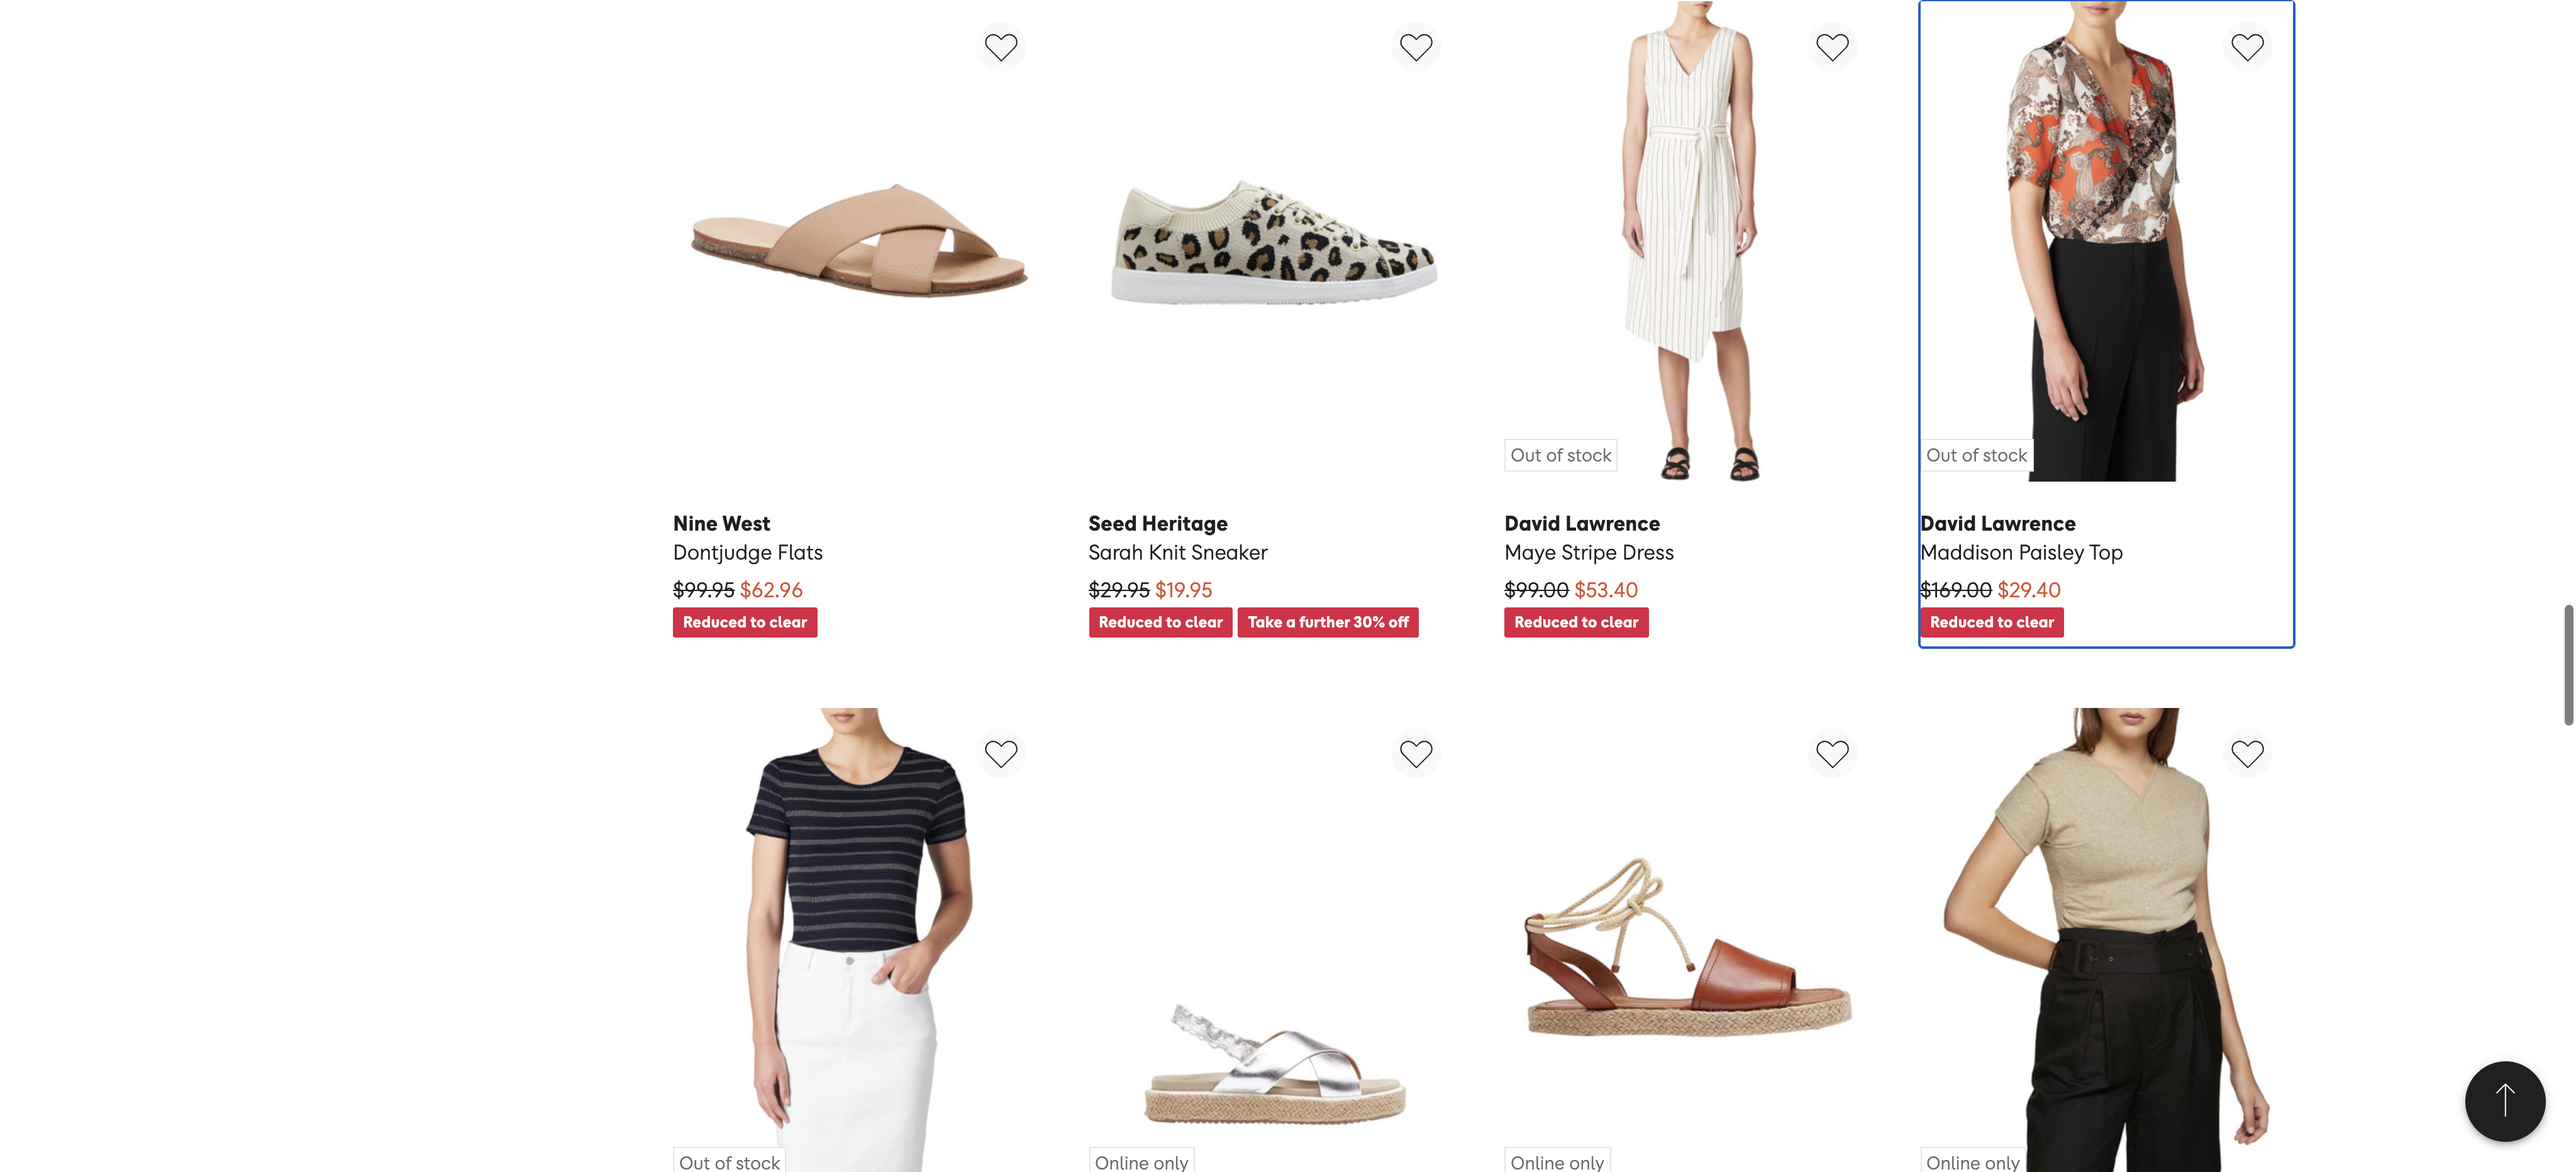
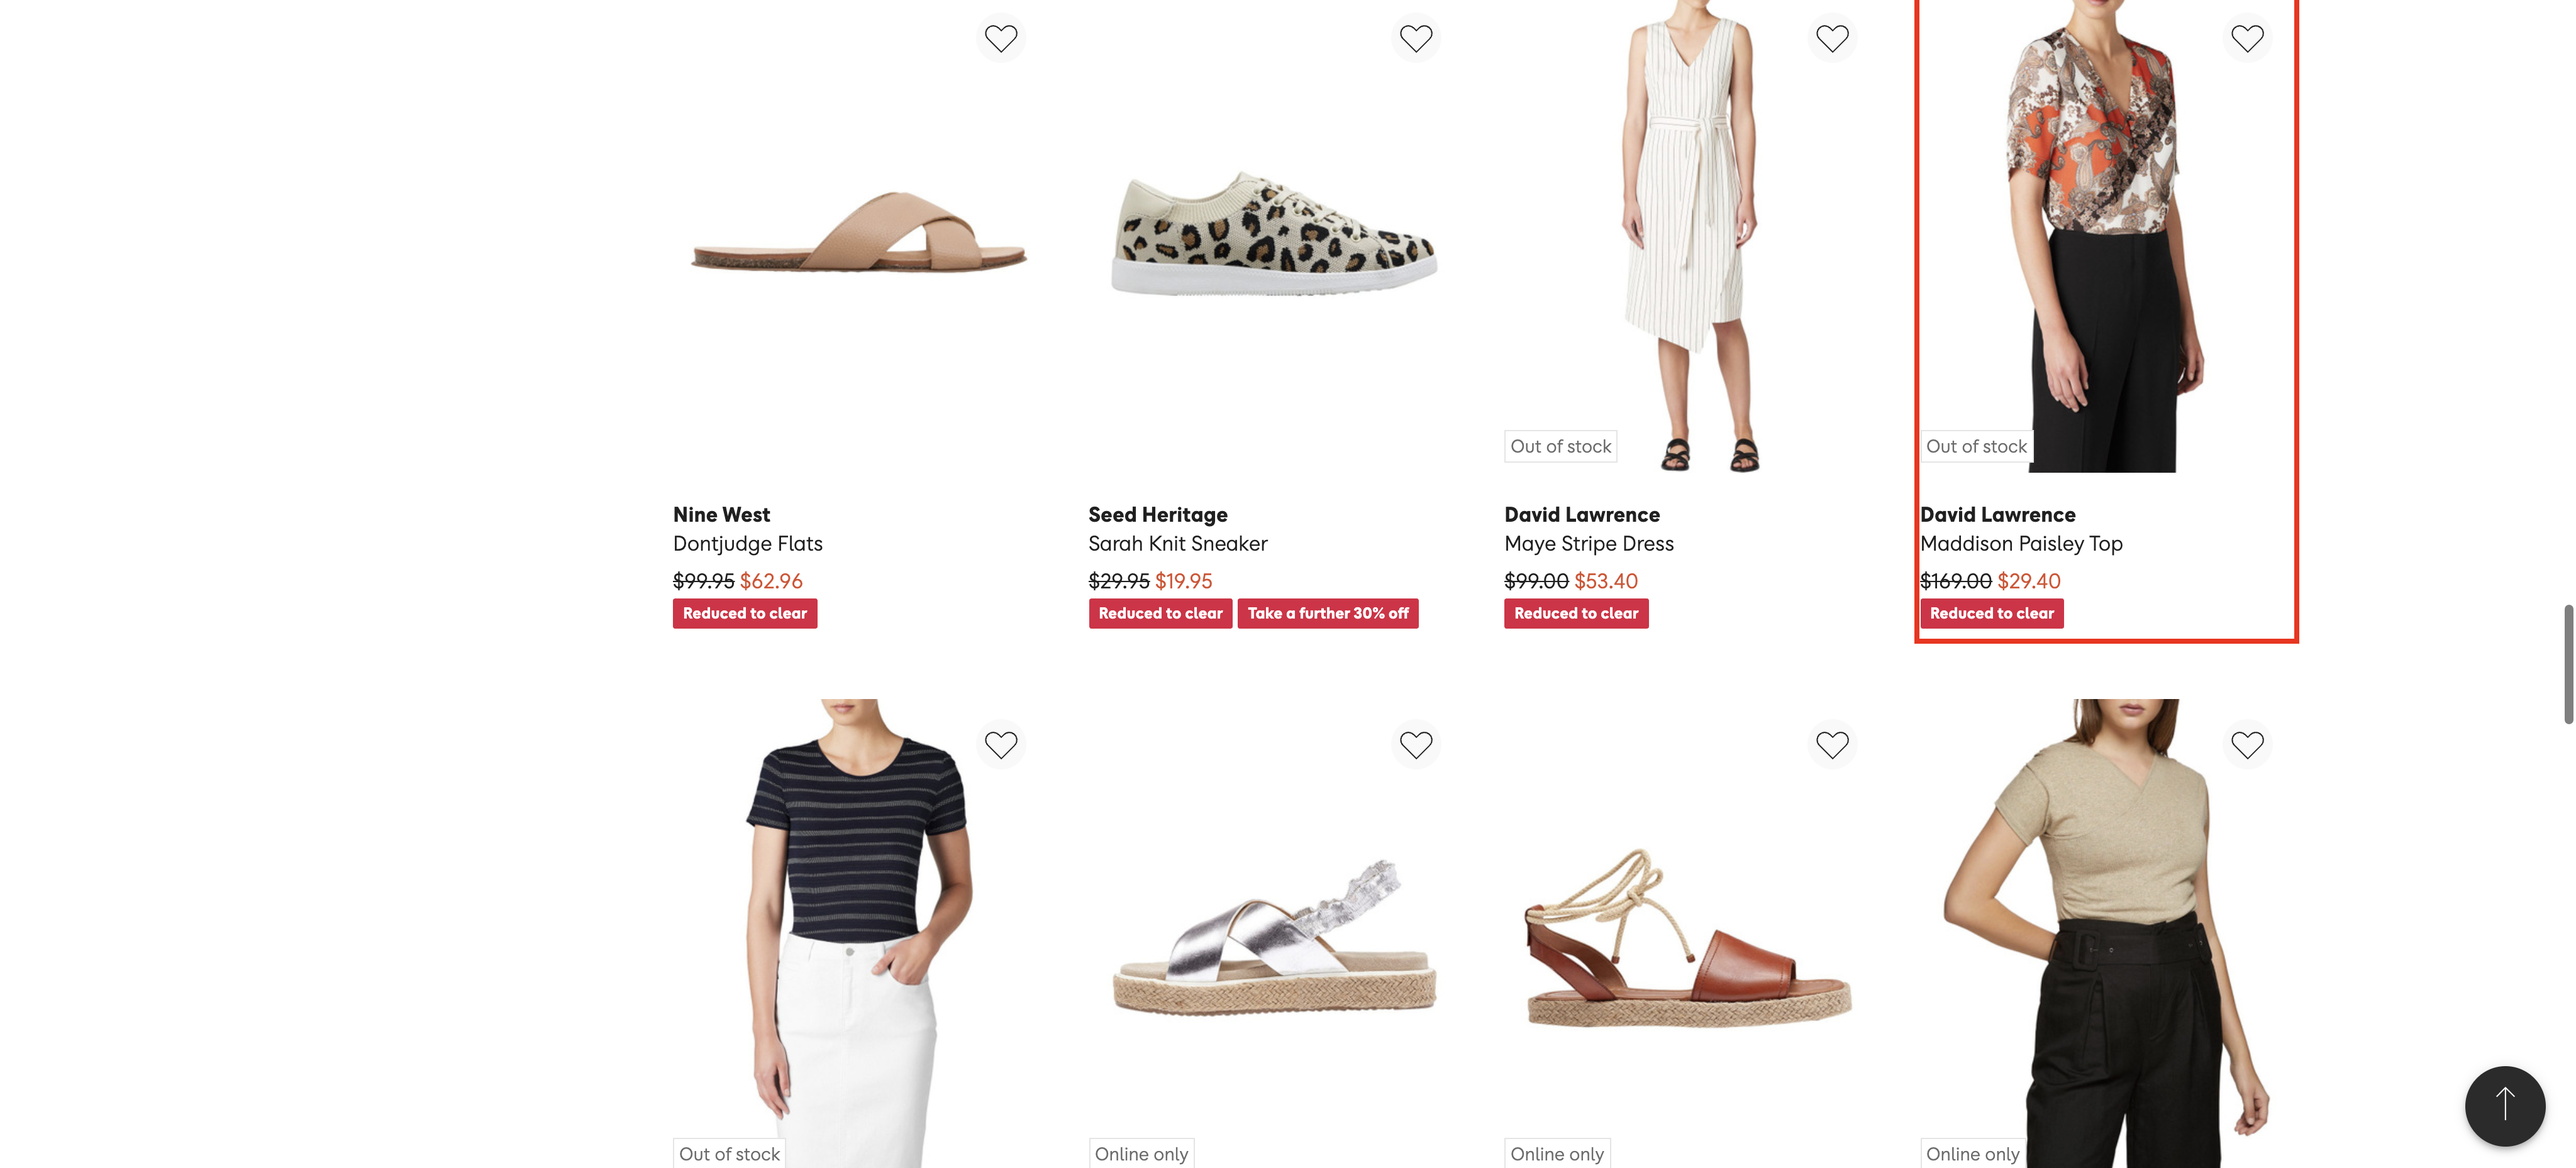
Updated

diff --git a/test/pageobjects/sale.page.js b/test/pageobjects/sale.page.js
@@ -64,8 +64,9 @@ class SalePage extends Page {
                         filepath = 'screenshots/60to70/' + percent + ' ' + name + '.png';
                         if (!fs.existsSync(filepath)) {
                             product.scrollIntoView();
-                            product.$('div[data-automation=product-price]').click();
+                            this.drawHighlight(product);
                             browser.saveScreenshot(filepath);
+                            this.removeHighlight(product);
                         }
                 };
                 if (70<=percent && percent<80) {
@@ -74,8 +75,9 @@ class SalePage extends Page {
                     filepath = 'screenshots/70to80/' + percent + ' ' + name + '.png';
                     if (!fs.existsSync(filepath)) {
                         product.scrollIntoView();
-                        product.$('div[data-automation=product-price]').click();
+                        this.drawHighlight(product);
                         browser.saveScreenshot(filepath);
+                        this.removeHighlight(product);
                     }
                 };
                 if (percent>=80) {
@@ -84,8 +86,9 @@ class SalePage extends Page {
                     filepath = 'screenshots/over80/' + percent + ' ' + name + '.png';
                     if (!fs.existsSync(filepath)) {
                         product.scrollIntoView();
-                        product.$('div[data-automation=product-price]').click();
+                        this.drawHighlight(product);
                         browser.saveScreenshot(filepath);
+                        this.removeHighlight(product);
                         }
                 };
             }

diff --git a/test/pageobjects/page.js b/test/pageobjects/page.js
@@ -18,8 +18,11 @@ module.exports = class Page {
         return browser.url(`/${path}`);
     }
 
-    login() {
-        browser.url('https://www.myer.com.au/login?continue=%2Faccount&flow=account');
-        
+    drawHighlight(element) {
+        browser.execute('arguments[0].style.outline = "#f00 solid 4px";', element);
+    }
+
+    removeHighlight(element) {
+        browser.execute('arguments[0].style.outline = "#f00 solid 0px";', element);
     }
 }
